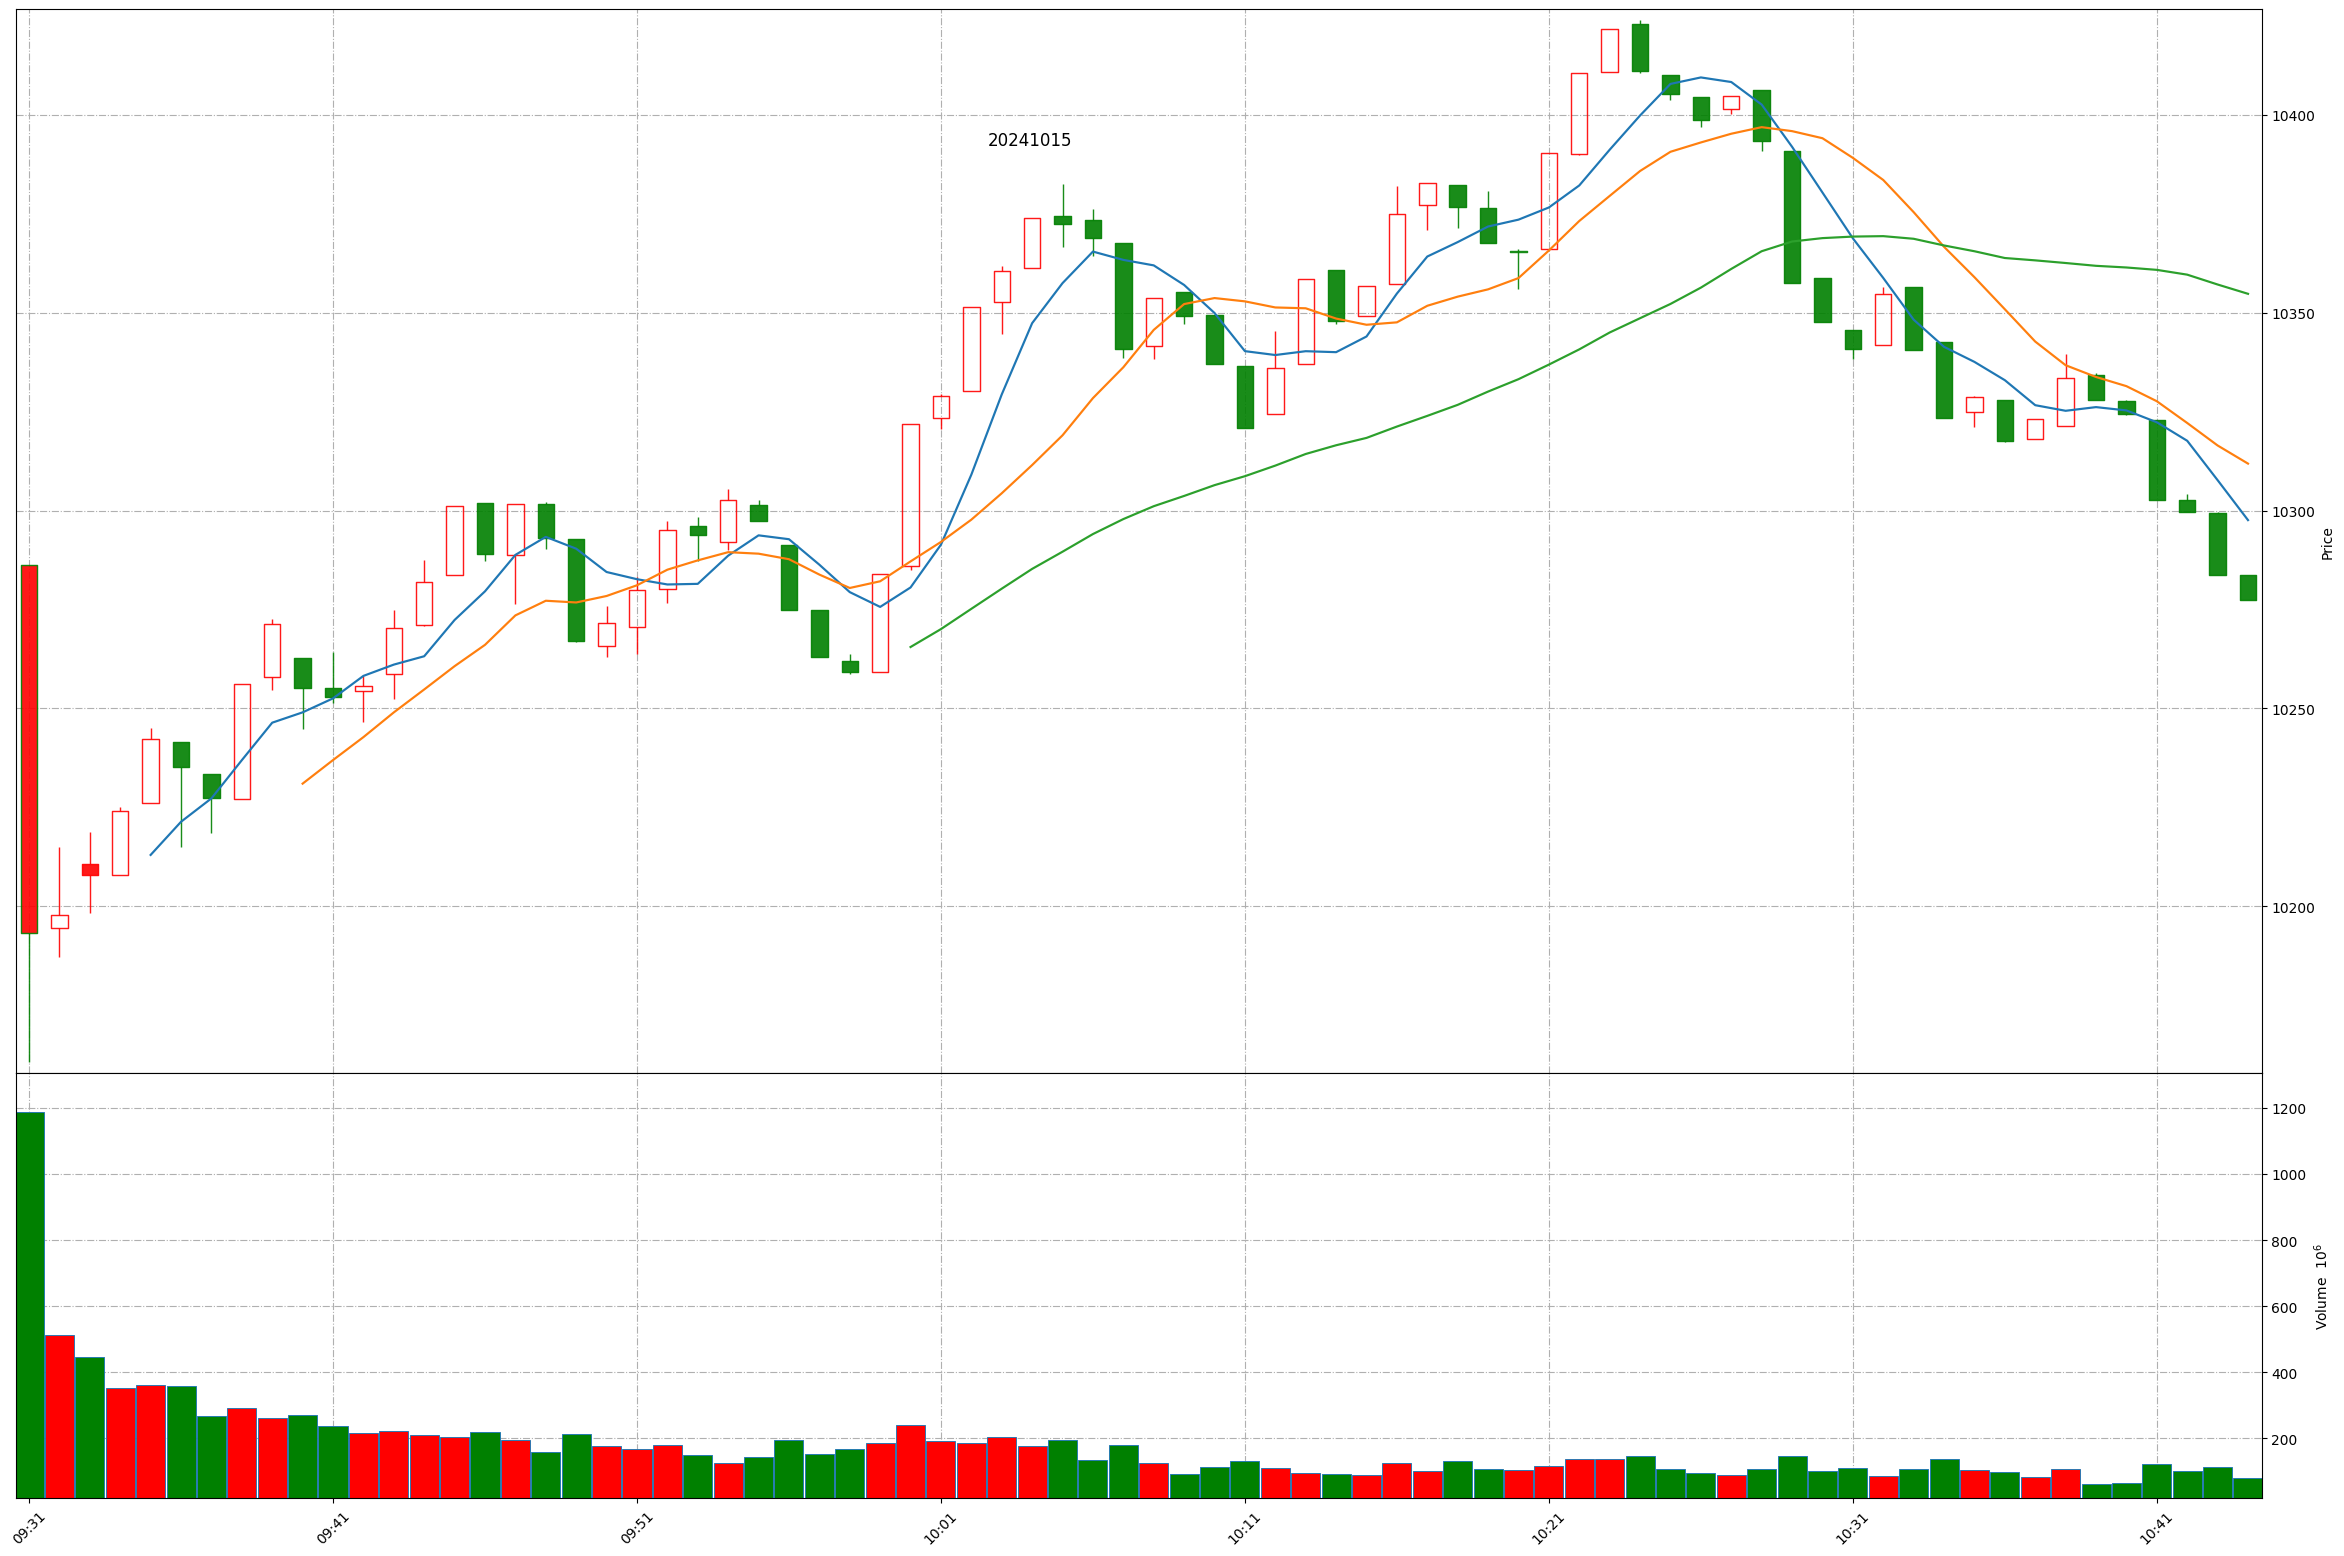
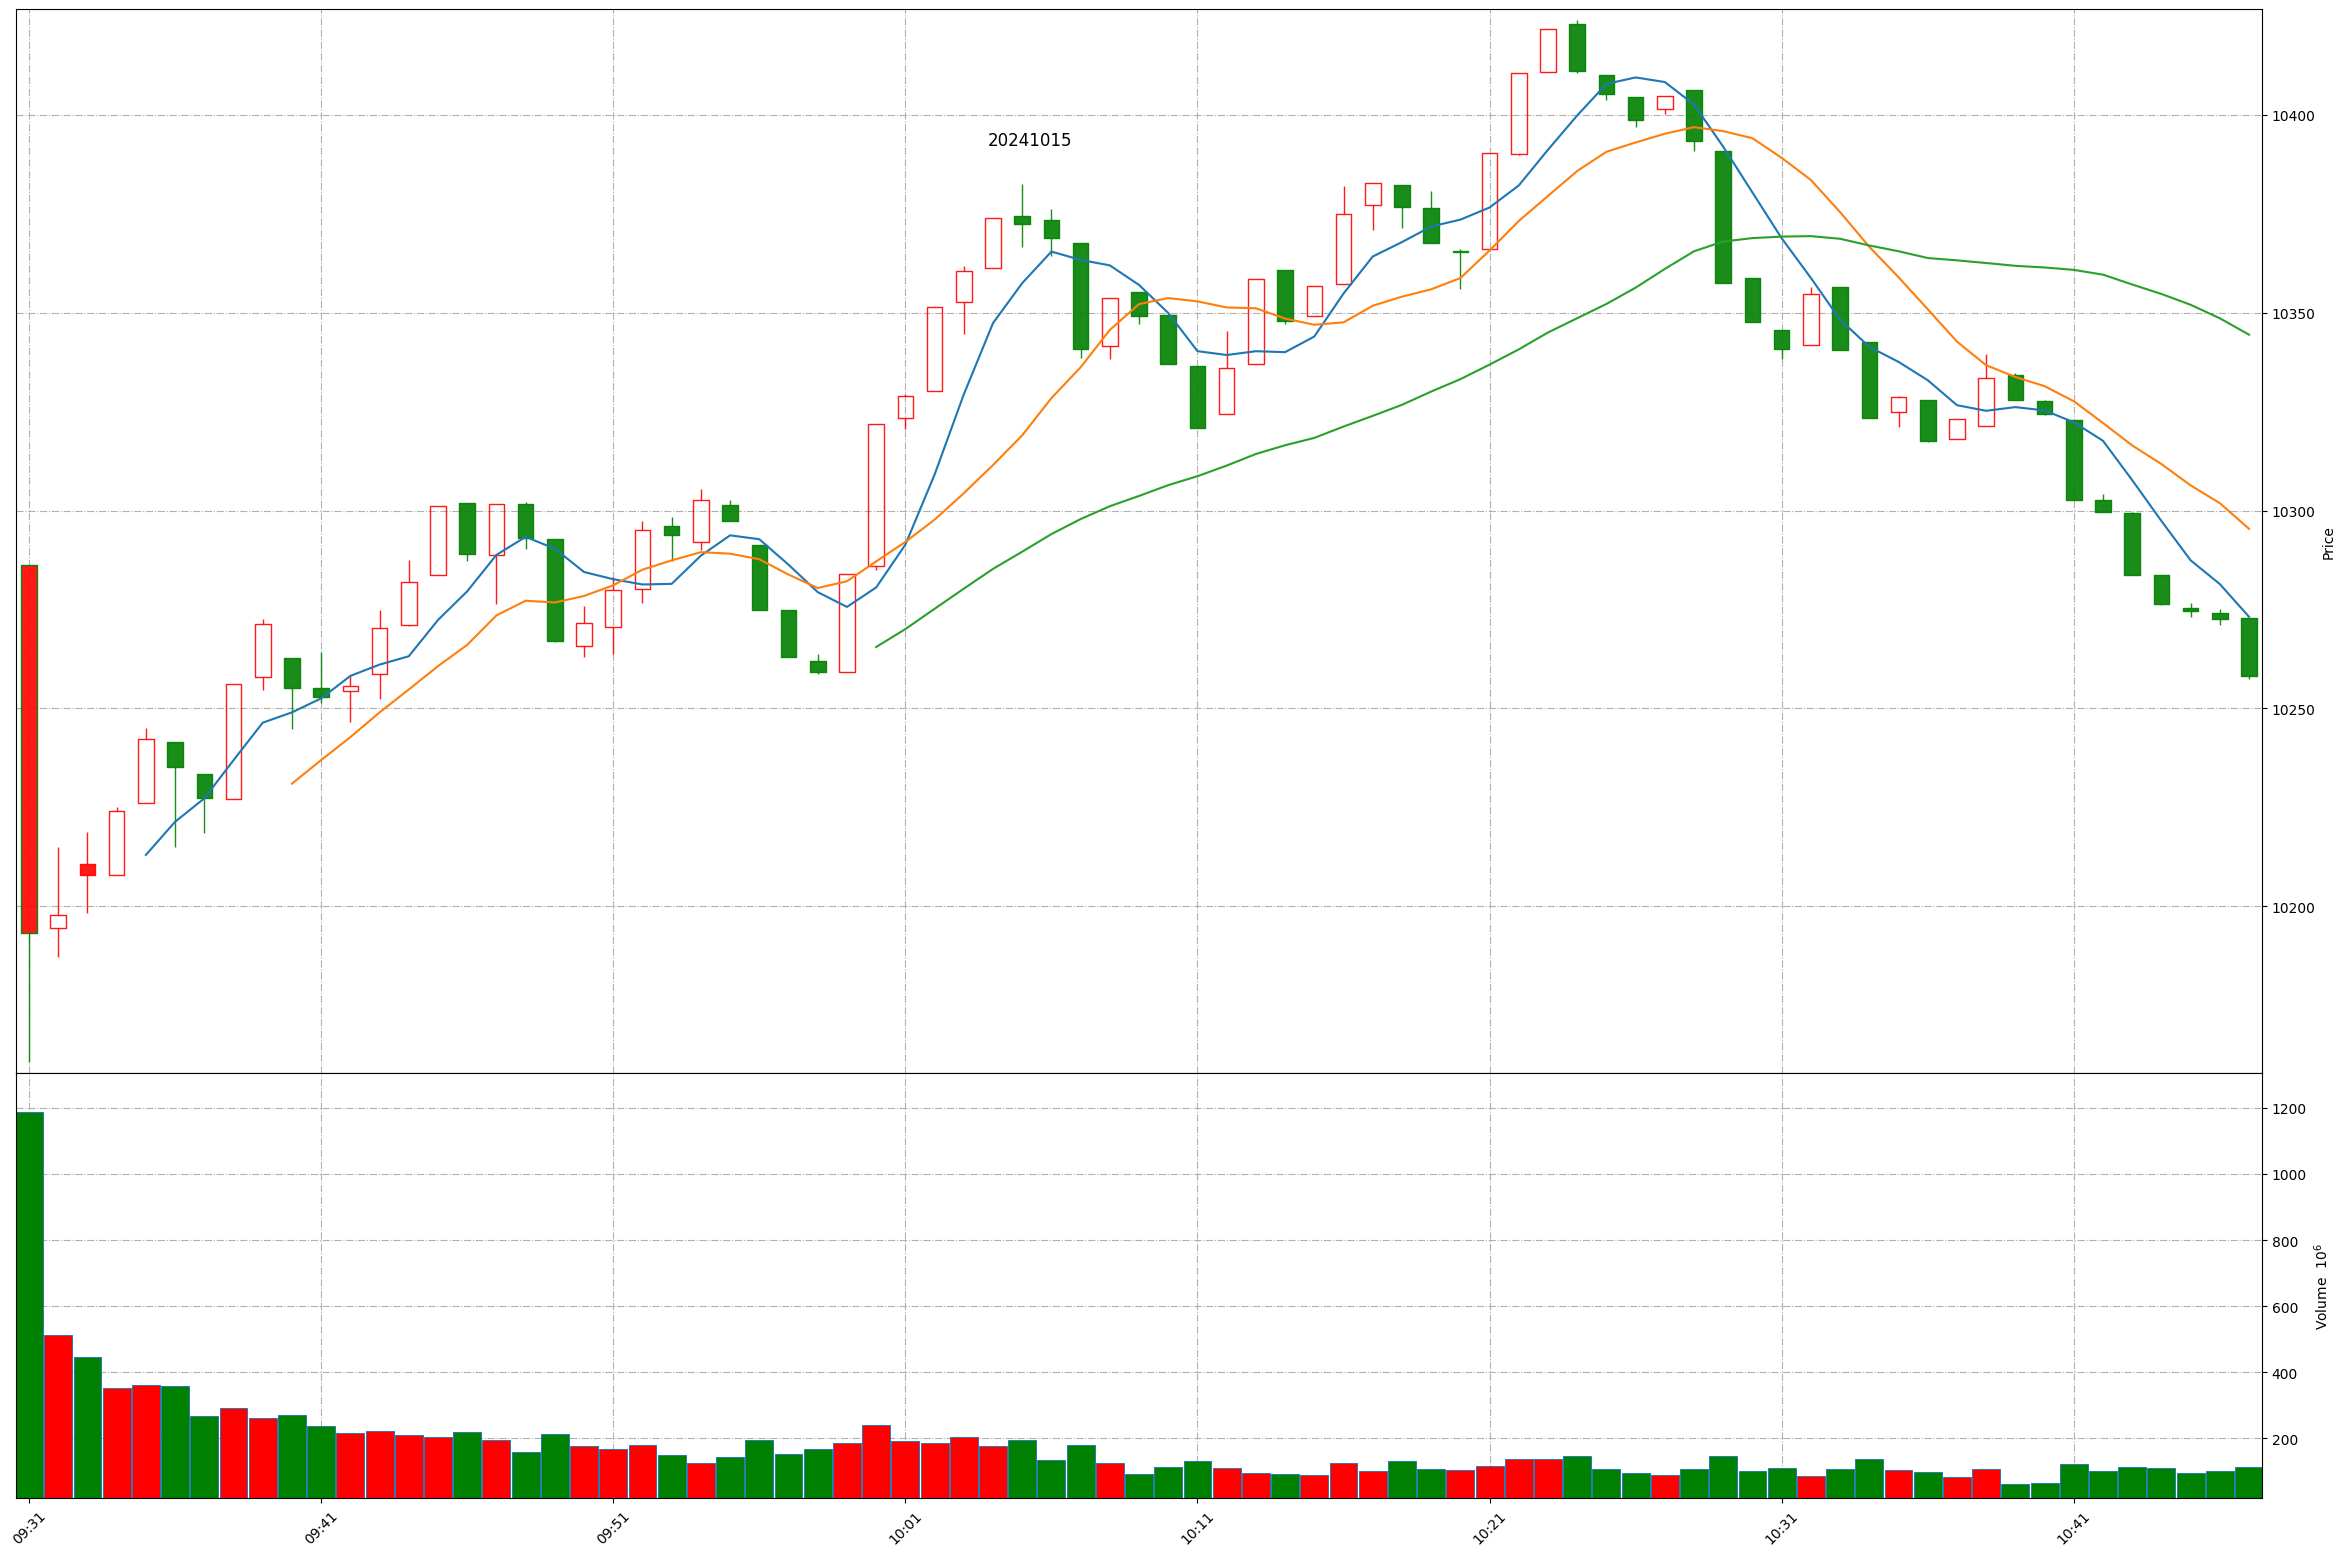
Github action update at 2024-10-15 10:46:56.

diff --git a/README.md b/README.md
@@ -1,11 +1,11 @@
 
 # Daily-A-share-market-quotes 每日 A 股指数（5min 更新）- 20241015
 
-### 上证指数 20241015 10:43
+### 上证指数 20241015 10:46
 ![](./fig/2024/10/20241015-sh000001.png)
 
-### 深证成指 20241015 10:43
+### 深证成指 20241015 10:46
 ![](./fig/2024/10/20241015-sz399001.png)
 
-### 北证50 20241015 10:43
+### 北证50 20241015 10:46
 ![](./fig/2024/10/20241015-bj899050.png)
